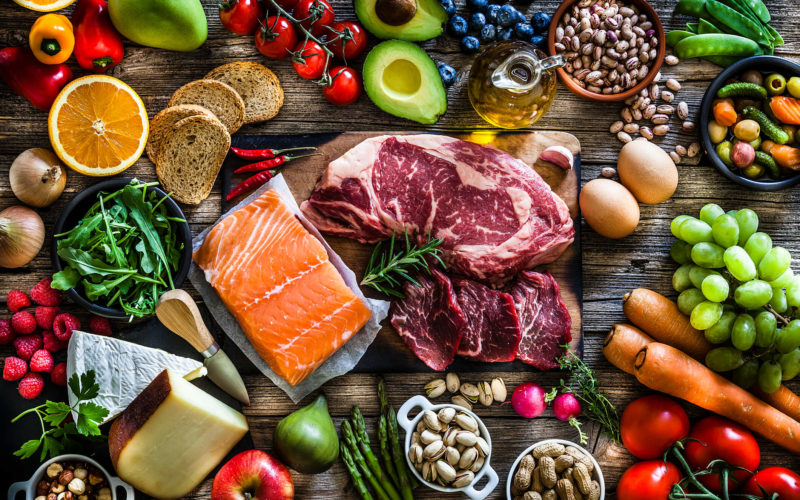
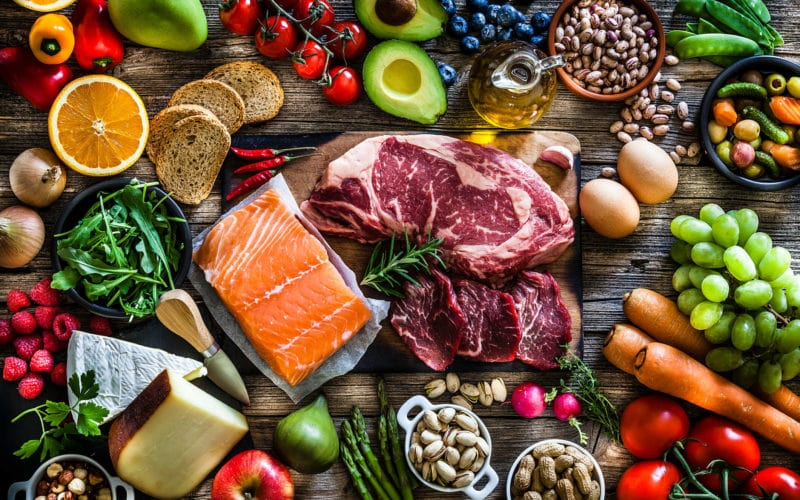
Implement optgroup and compress image

diff --git a/resources/views/home.blade.php b/resources/views/home.blade.php
@@ -33,6 +33,15 @@
                 }
             });
 
+            $('#submit-substance').click(function () {
+                checked = $("input[type=checkbox]:checked").length;
+
+                if (!checked) {
+                    $('#myAlert').css('display', 'block');
+                    return false;
+                }
+            });
+
             $('#submit-to-second-product').click(function () {
                 checked = $("input[type=checkbox]:checked").length;
 
@@ -143,10 +152,10 @@
 <body class="d-flex flex-column min-vh-100">
     <nav class="navbar navbar-light" style="background: #5CB85C; color: white !important;">
         <div class="container d-flex justify-content-center">
-            <a class="navbar-brand bg-light p-1" href="#" style="border-radius: 100%">
+            <a class="navbar-brand bg-light p-1" href="/" style="border-radius: 100%">
                 <img src="{{ asset('images/Logo.png')}}" width="32" height="32">
             </a>
-            <a href="#" style="text-decoration: none; color: white;">
+            <a href="/" style="text-decoration: none; color: white;">
                 <h5 style="font-weight: bold; line-height: 1rem;" class="p-0 m-0">FOODN'T</h5>
             </a>
         </div>
@@ -288,12 +297,22 @@
                         <label for="disease_dropdown">
                             <h5>Please specify the disease.</h5>
                         </label>
-                        <select name="diseases" id="disease_dropdown" class="col-6 custom-select">
-                            <?php $i = 0; ?>
-                            @foreach ($disease_dropdown as $dd)
-                            <option name="disease_<?= $i++ ?>" value={{ $dd->{'nama penyakit'} }}>
-                                {{ ucfirst($dd->{'nama penyakit'}) }}</option>
-                            @endforeach
+                        <select name="diseases" id="disease_dropdown" class="col-6 custom-select" required>
+                            <option name="none" value="">---Select disease---</option>
+                            @if(isset($list_diseases))
+                                @foreach($list_disease_types as $dt)
+                                    <?php $jenisNow = $dt->{'jenis penyakit'}; $i = 0; ?>
+                                    <optgroup label="{{ ucfirst($dt->{'jenis penyakit'}) }}">
+                                        @foreach($list_diseases as $d)
+                                            @if($jenisNow == $d->{'jenis penyakit'})
+                                                <option name="disease_<?= $i++ ?>" value={{ $d->{'nama penyakit'} }}>
+                                                    {{ ucfirst($d->{'nama penyakit'}) }}
+                                                </option>
+                                            @endif
+                                        @endforeach
+                                    </optgroup>
+                                @endforeach
+                            @endif
                         </select>
                     </div>
                     <div class="buttons d-flex justify-content-end">
@@ -320,6 +339,15 @@
                 <form class="form-control card-body" action="{{ url("/second-product") }}" method="post"
                     enctype="multipart/form-data">
                     {{ csrf_field() }}
+                    <div class="alert alert-danger fade show" role="alert" id="myAlert" style="display: none;">
+                        <svg xmlns="http://www.w3.org/2000/svg" width="24" height="24" fill="currentColor"
+                            class="bi bi-exclamation-triangle-fill flex-shrink-0 me-2" viewBox="0 0 16 16" role="img"
+                            aria-label="Warning:">
+                            <path
+                                d="M8.982 1.566a1.13 1.13 0 0 0-1.96 0L.165 13.233c-.457.778.091 1.767.98 1.767h13.713c.889 0 1.438-.99.98-1.767L8.982 1.566zM8 5c.535 0 .954.462.9.995l-.35 3.507a.552.552 0 0 1-1.1 0L7.1 5.995A.905.905 0 0 1 8 5zm.002 6a1 1 0 1 1 0 2 1 1 0 0 1 0-2z" />
+                        </svg>
+                        <span>You must check at least one checkbox.</span>
+                    </div>
                     <h5>Are there any of the substances in the product that suits with below?</h5>
                     <div class="row pl-5 container-fluid" style="background: none;">
                         @foreach($substance_product as $subs)
@@ -353,14 +381,24 @@
                     <h5>What is the organic food called?</h5>
                     <div class="form-group d-flex justify-content-between">
                         <label for="organicFoodInput">
-                            <h5>Please specify the disease.</h5>
+                            <h5>Please specify the food name.</h5>
                         </label>
-                        <select name="organicFoodInput" id="organicFoodInput" class="col-6 custom-select">
-                            <?php $i = 0; ?>
-                            @foreach ($food_dropdown as $dd)
-                            <option name="disease_<?= $i++ ?>" value={{ $dd->{'kode makanan'} }}>
-                                {{ ucfirst($dd->{'isi makanan'}) }}</option>
-                            @endforeach
+                        <select name="organicFoodInput" id="organicFoodInput" class="col-6 custom-select" required>
+                            <option name="none" value="">---Select organic food---</option>
+                            @if(isset($food_dropdown))
+                                @foreach($food_dropdown_types as $dt)
+                                    <?php $jenisNow = $dt->{'jenis makanan'}; $i = 0; ?>
+                                    <optgroup label="{{ ucfirst($dt->{'jenis makanan'}) }}">
+                                        @foreach($food_dropdown as $d)
+                                            @if($jenisNow == $d->{'jenis makanan'})
+                                                <option name="makanan_<?= $i++ ?>" value="{{ $d->{'isi makanan'} }}">
+                                                    {{ ucfirst($d->{'isi makanan'}) }}
+                                                </option>
+                                            @endif
+                                        @endforeach
+                                    </optgroup>
+                                @endforeach
+                            @endif
                         </select>
                     </div>
                     <div class="buttons d-flex justify-content-end">
@@ -443,6 +481,15 @@
                 <form action="{{ url("/second-organic-check") }}" class="form-control card-body" method="post"
                     enctype="multipart/form-data">
                     {{ csrf_field() }}
+                    <div class="alert alert-danger fade show" role="alert" id="myAlert" style="display: none;">
+                        <svg xmlns="http://www.w3.org/2000/svg" width="24" height="24" fill="currentColor"
+                            class="bi bi-exclamation-triangle-fill flex-shrink-0 me-2" viewBox="0 0 16 16" role="img"
+                            aria-label="Warning:">
+                            <path
+                                d="M8.982 1.566a1.13 1.13 0 0 0-1.96 0L.165 13.233c-.457.778.091 1.767.98 1.767h13.713c.889 0 1.438-.99.98-1.767L8.982 1.566zM8 5c.535 0 .954.462.9.995l-.35 3.507a.552.552 0 0 1-1.1 0L7.1 5.995A.905.905 0 0 1 8 5zm.002 6a1 1 0 1 1 0 2 1 1 0 0 1 0-2z" />
+                        </svg>
+                        <span>You must check at least one checkbox.</span>
+                    </div>
                     <h5>We are not able to find any result regarding the food you input.</h5>
                     <h5>Are there any of the substances in the product that suits with below?.</h5>
                     @if(isset($substance_organic))
@@ -470,7 +517,7 @@
                     @endif
 
                     <div class="container buttons">
-                        <button type="submit" class="btn btn-primary">Submit</button>
+                        <button type="submit" class="btn btn-primary" id="submit-substance">Submit</button>
                     </div>
                 </form>
                 @endif
@@ -478,7 +525,7 @@
                 {{-- THIRD YES/NO --}}
                 @if (isset($thirdYes) && $thirdYes == 'yes')
                 <h5 class="card-header">Recommendation Table</h5>
-                <form class="text-center card-body" action="{{ url("/ending") }}" method="post">
+                <form class="text-center card-body " action="{{ url("/ending") }}" method="post">
                     {{ csrf_field() }}
                     <h5>The system recommends you to avoid food(s) stated in table below.</h5>
                     <table id="disease_list" class="table table-striped table-hover border-dark table-responsive">
@@ -492,7 +539,6 @@
                         </thead>
                         <tbody>
                             @if (isset($avoid))
-                            {{-- <?= dd($avoid);?> --}}
                             @foreach ($avoid as $a)
                             <tr>
                                 <td>{{ ucfirst($a->{'nama penyakit'}) }}</td>
@@ -537,14 +583,9 @@
                 {{-- SYSTEM-END NO-REPEAT/NO-EXIST --}}
                 @if (isset($systemEnd) && $systemEnd == 'no-repeat')
                 <h5 class="card-header">Result</h5>
-                <form class="text-center card-body" action="{{ url("/ending") }}" method="post">
+                <form class="card-body d-flex align-items-center justify-content-center" action="{{ url("/ending") }}" method="post">
                     {{ csrf_field() }}
                     <h5>Well then, thank you for using our system!</h5>
-                    <h5>Do you want to start from the beginning?</h5>
-                    <div class="container buttons">
-                        <button type="submit" name="action" value="yes" class="btn btn-primary">Yes</button>
-                        <button type="submit" name="action" value="no" class="btn btn-primary">No</button>
-                    </div>
                 </form>
                 @elseif (isset($systemEnd) && $systemEnd == 'not-exist')
                 <h5 class="card-header">Result</h5>

diff --git a/app/Http/Controllers/HomeController.php b/app/Http/Controllers/HomeController.php
@@ -37,18 +37,28 @@ class HomeController extends Controller
             ->get();
 
         $organic_food = DB::table('tb_foods')
-            ->select('tb_foods.kode makanan','tb_foods.isi makanan')
+        ->join('tb_typefoods', 'tb_foods.kode makanan', '=', 'tb_typefoods.kode makanan')
+
+            ->select('tb_foods.kode makanan','tb_foods.isi makanan', 'tb_typefoods.jenis makanan')
             ->where('tb_foods.tipe makanan', "nature")
-            ->groupBy('tb_foods.isi makanan')
+            ->distinct()
             ->orderBy('tb_foods.isi makanan', 'asc')
             ->get()
             ->all();
 
+        $organic_food_types = DB::table('tb_typefoods')
+            ->select('tb_typefoods.jenis makanan')
+            ->join('tb_foods', 'tb_typefoods.kode makanan', '=', 'tb_foods.kode makanan')
+            ->where('tb_foods.tipe makanan', "nature")
+            ->groupBy('tb_typefoods.jenis makanan')
+            ->orderBy('tb_typefoods.jenis makanan', 'asc')
+            ->get()
+            ->all();
         if($input == 'product') return view('home', [
             'firstYes' => 'product',
             'substance_product' => $substance_product, 'lastInput' => $input
         ]);
-        else if($input == 'organic') return view('home', ['firstYes' => 'organic', 'lastInput' => $input, 'food_dropdown' => $organic_food]);
+        else if($input == 'organic') return view('home', ['firstYes' => 'organic', 'lastInput' => $input, 'food_dropdown' => $organic_food, 'food_dropdown_types' => $organic_food_types]);
         else return view('home');
     }
 
@@ -56,12 +66,19 @@ class HomeController extends Controller
         $input = $request->action;
         // echo("Last answer: ". $input);
         $dis = DB::table('tb_disease')
-            ->select('tb_disease.nama penyakit')
-            ->groupBy('tb_disease.nama penyakit')
+            ->select('tb_disease.nama penyakit', 'tb_disease.jenis penyakit')
             ->orderBy('tb_disease.nama penyakit', 'asc')
+            ->distinct()
             ->get()
             ->all();
-        if($input == 'yes') return view('home', ['beforeFirstNo' => 'yes', 'lastInput' => $input, 'disease_dropdown' => $dis]);
+
+        $dis_type = DB::table('tb_disease')
+            ->select('tb_disease.jenis penyakit')
+            ->groupby('tb_disease.jenis penyakit')
+            ->get()
+            ->all();
+
+        if($input == 'yes') return view('home', ['beforeFirstNo' => 'yes', 'lastInput' => $input, 'list_diseases' => $dis, 'list_disease_types' => $dis_type]);
         else if($input == 'no') return view('home', ['beforeFirstNo' => 'no', 'lastInput' => $input]);
         else return view('home');
     }
@@ -169,13 +186,12 @@ class HomeController extends Controller
 
     function secondOrganic(Request $request) {
         $input = $request->organicFoodInput;
-        // echo("Last answer: ". $input);
 
         $organic_food = DB::table('tb_foods')
             ->select('tb_foods.isi makanan')
             ->where([
                 ['tb_foods.tipe makanan', '=', 'nature'],
-                ['tb_foods.isi makanan', 'like', "%".$input."%"]
+                ['tb_foods.isi makanan', 'like', '%'.$input.'%']
             ])
             ->get();
 
@@ -211,7 +227,7 @@ class HomeController extends Controller
                                     ->get();
             return view('home', [
                 'secondOrganic' => 'yes',
-                'substance_organic' => $substance_organic, 'lastInput' => $input
+                'substance_organic' => $substance_organic, 'lastInput' => $organic_food
             ]);
         }
     }
